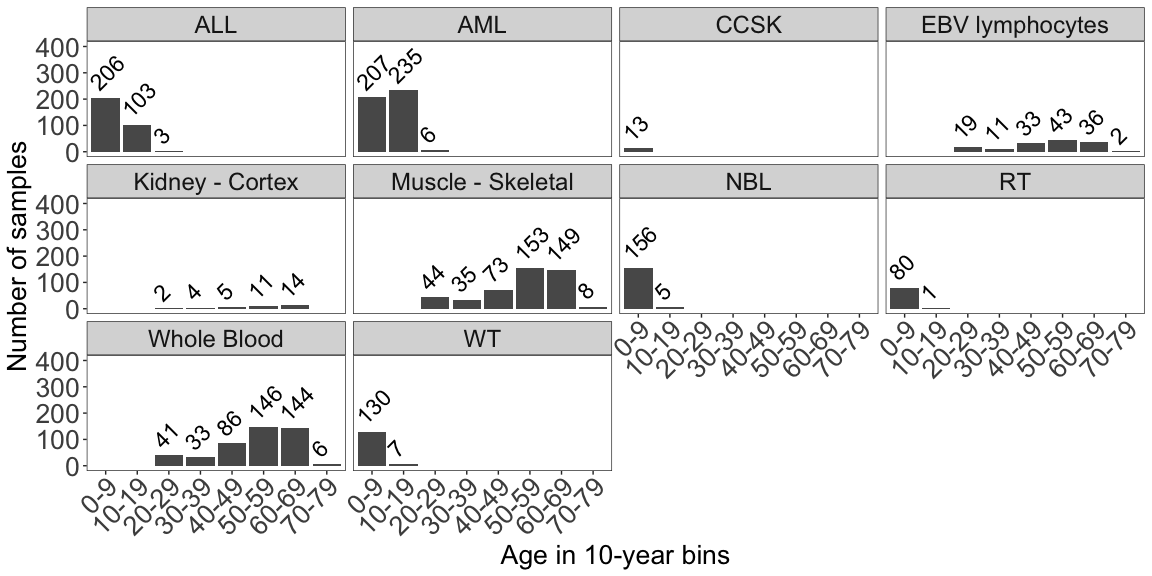
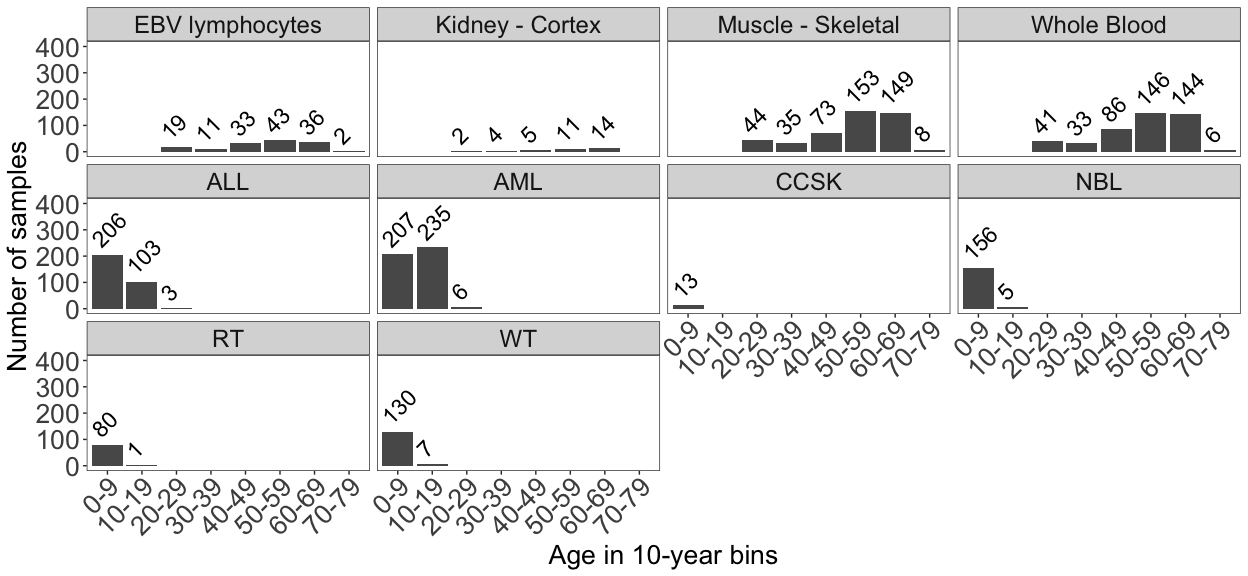
tissue types need to be set as factor in summary df

diff --git a/notebooks/compendium_summary/compendium_v1_summary.md b/notebooks/compendium_summary/compendium_v1_summary.md
@@ -414,11 +414,17 @@ for_summary_gtex_df <- cleaned_gtex_df |>
       body_site == "Cells - EBV-transformed lymphocytes" ~ "EBV lymphocytes",
       .default = body_site
     )
+  )
 
 for_summary_compendium_df <- dplyr::bind_rows(
   cleaned_target_df,
   for_summary_gtex_df
-)
+) |>
+  dplyr::mutate(
+    # set tissue order as a factor so it can be applied to plots
+    plot_tissue_type = factor(
+      plot_tissue_type, 
+      levels = tissue_order))
 
 for_summary_compendium_df |>
   dplyr::summarise(
